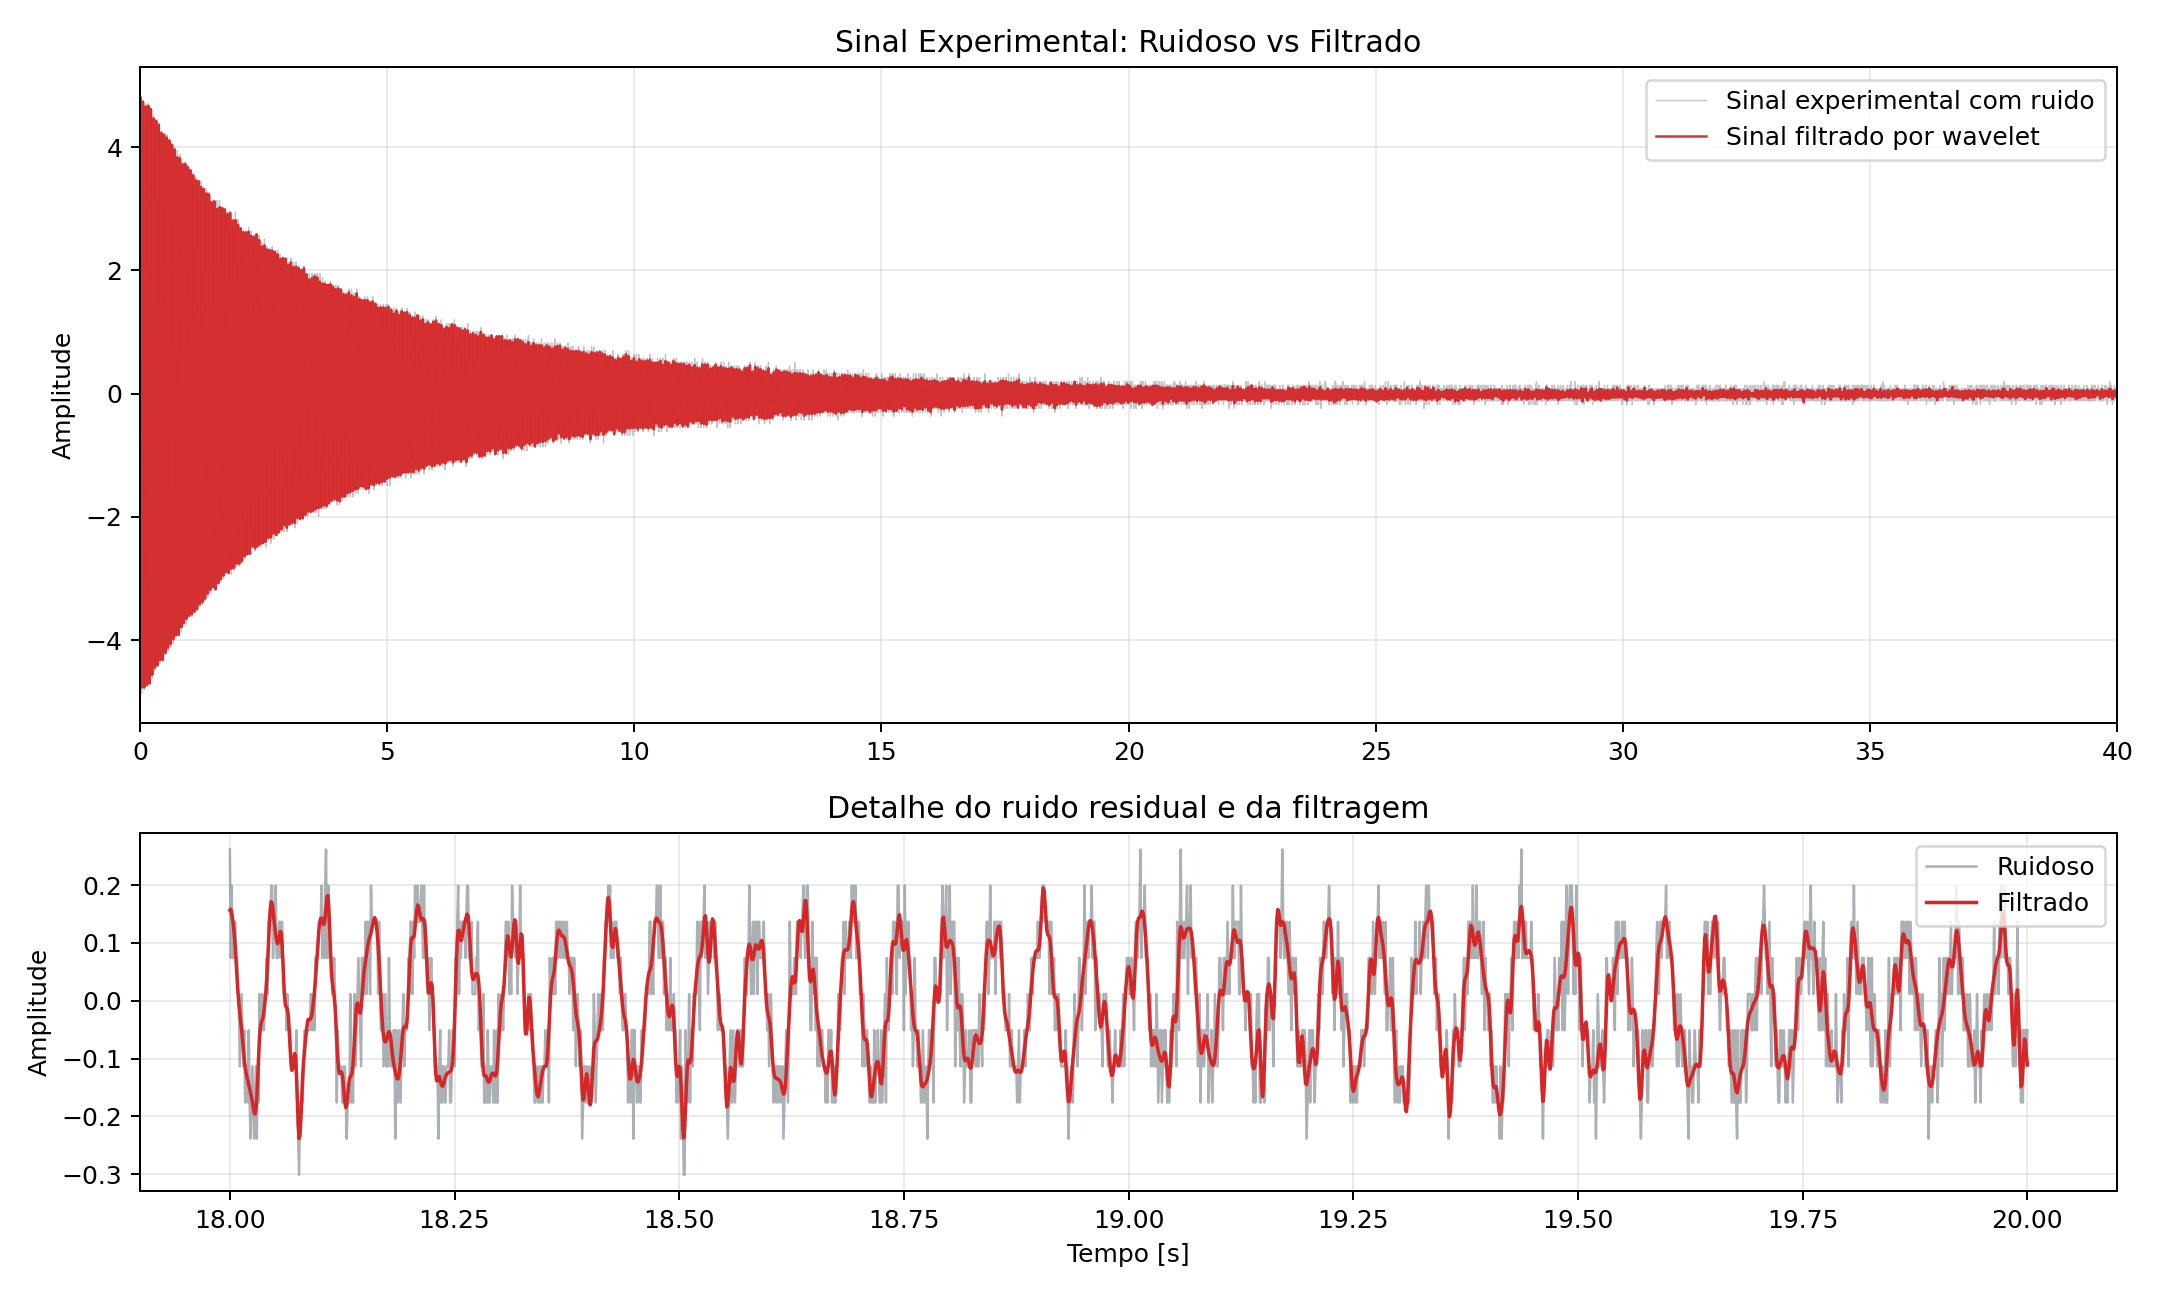
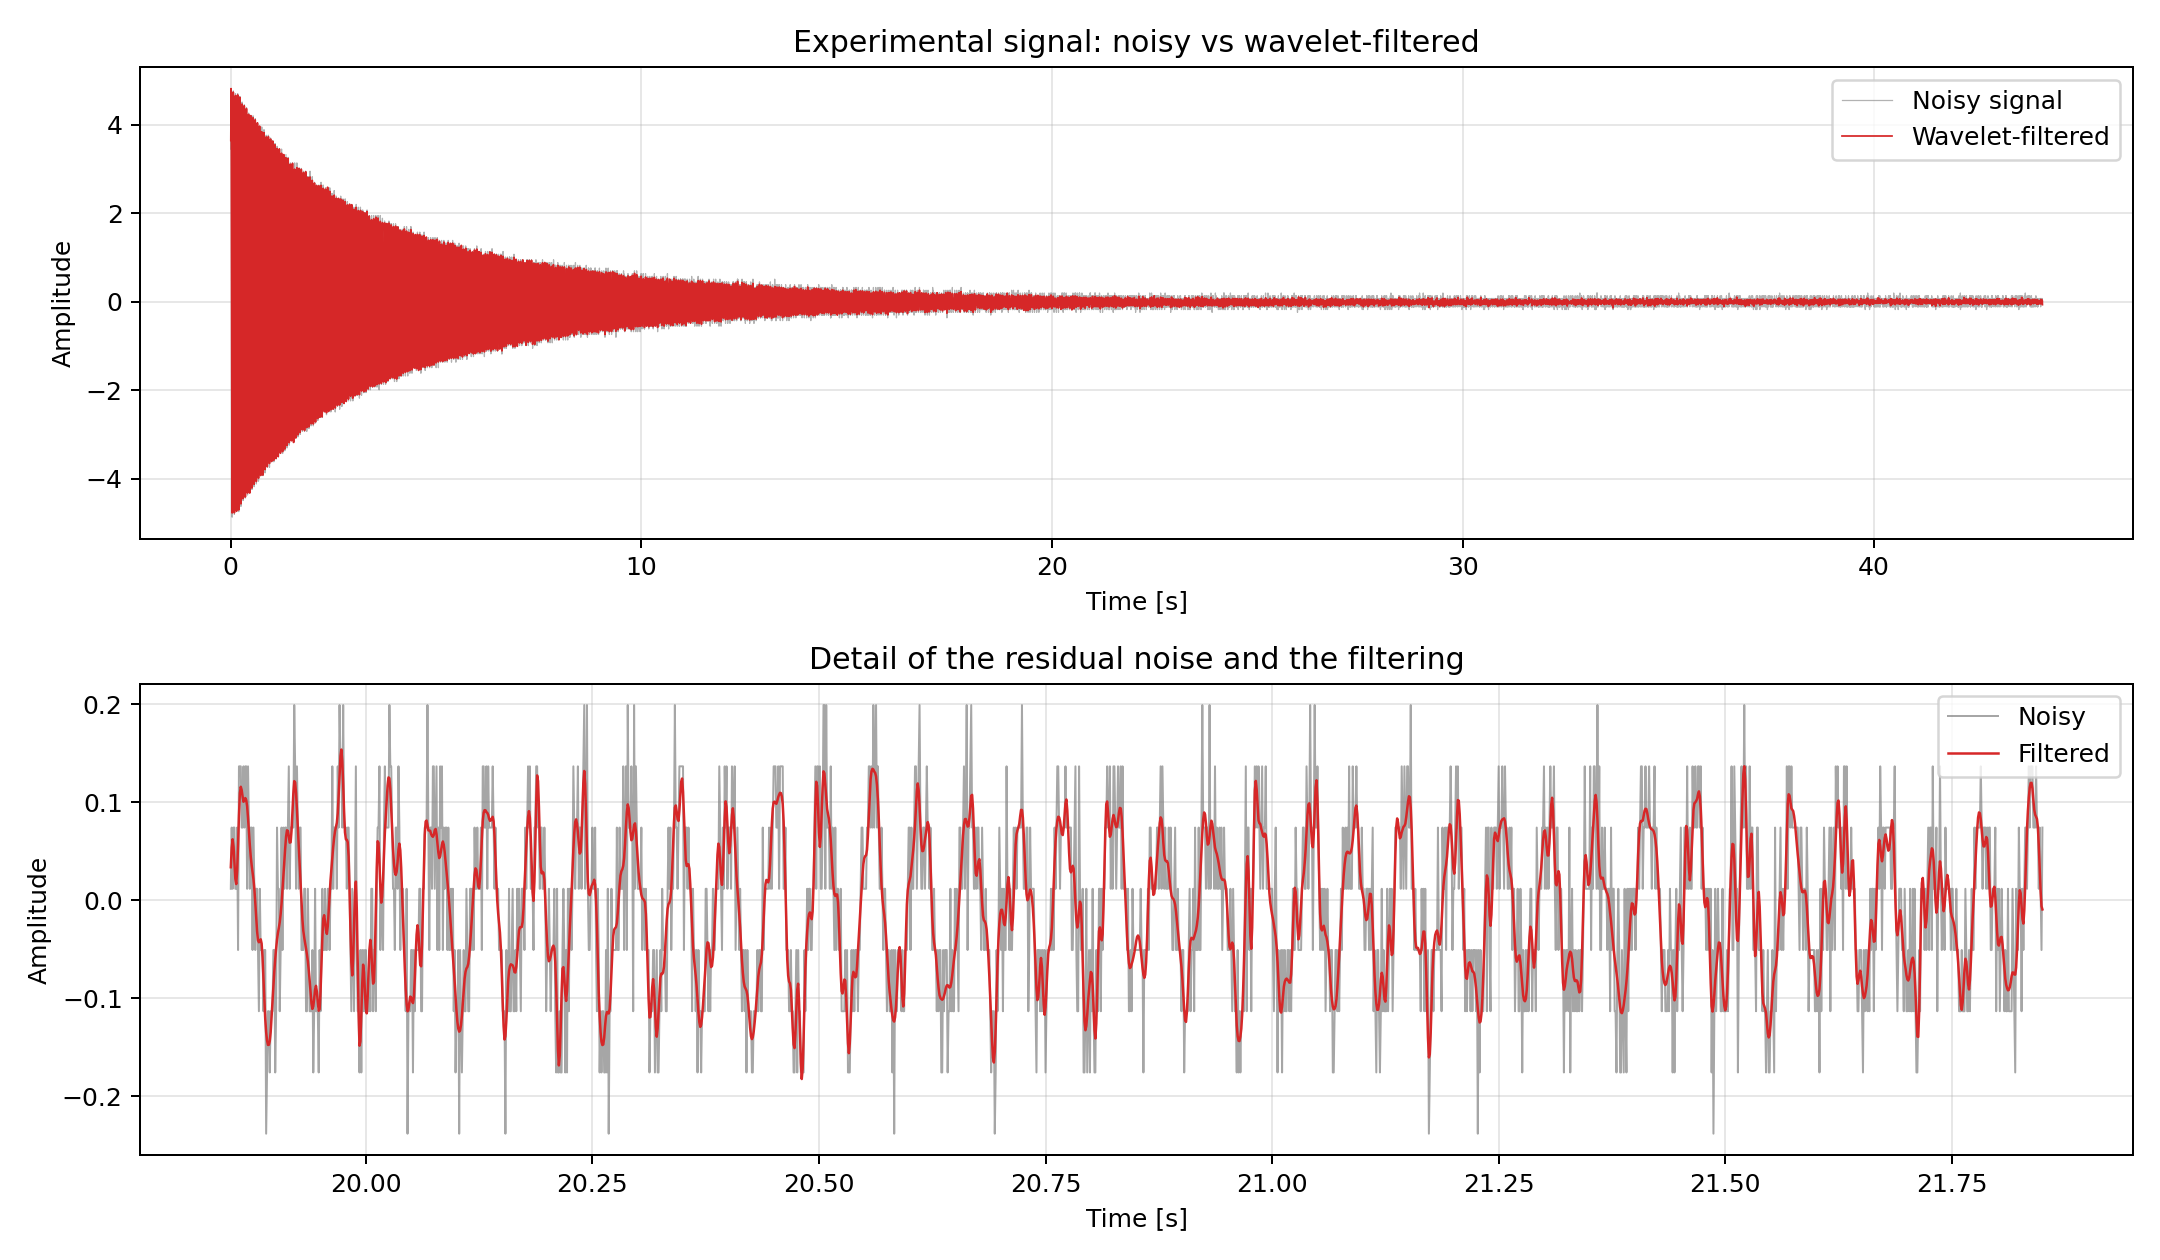
Regenerate curated figures with the fixed pipeline, in English
The committed sensor and advanced figures (plus the two main README
figures) still carried Portuguese titles and results from the old
biased identification. All eleven are now re-exported by the repo
scripts on the public samples: corrected linear/Duffing model, PINN
actually fitting the inox waveform with its parameter-convergence
panel, and the HAVOK mode reconstruction tracking the full window.
FIGURE_PROVENANCE marks each one as regenerated.

diff --git a/docs/FIGURE_PROVENANCE.md b/docs/FIGURE_PROVENANCE.md
@@ -6,6 +6,12 @@ notes whether it is **reproducible** today by a script in this repo.
 
 Association-confidence legend: ✅ high · 🟡 likely · ❔ uncertain.
 
+**Update (July 2026):** after the identification-pipeline fixes, the curated
+figures marked *regenerated 2026-07* below were re-exported by the repo scripts
+(English titles, corrected linear/Duffing/PINN identification). The "Original
+source" column still records where each analysis came from; the original loose
+files remain the historical reference.
+
 ## `figures/generated/` — reproducible now
 
 | Figure | Script in this repo |
@@ -19,8 +25,8 @@ Association-confidence legend: ✅ high · 🟡 likely · ❔ uncertain.
 | Figure | Original source | Loose file | Reproducible |
 | --- | --- | --- | --- |
 | `01_signal.png` | `final.ipynb` (signal view) | `Sinal.png` 🟡 | `run_basic_analysis.py` |
-| `01_noisy_vs_filtered_signal.png` | `completo.py` / `wav.py` | `linear.png` ❔ | partial |
-| `02_fft.png` | `fft.py` / `final.ipynb` | `fft.png`, `fft_dado_15.png` 🟡 | `run_basic_analysis.py` |
+| `01_noisy_vs_filtered_signal.png` | `completo.py` / `wav.py` | `linear.png` ❔ | **yes** — `run_basic_analysis.py` (regenerated 2026-07) |
+| `02_fft.png` | `fft.py` / `final.ipynb` | `fft.png`, `fft_dado_15.png` 🟡 | **yes** — `run_basic_analysis.py` (regenerated 2026-07) |
 | `03_cwt.png` | `Scalograma.py` / `recon.py` | `CWT.png` ✅ | `run_basic_analysis.py` |
 | `04_hilbert_envelope.png` | `Hilbert.py` / `envelope.py` | `envelope_hilbert.png` ✅ | `run_basic_analysis.py` |
 | `05_gamma_fit.png` | `envelope.py` | `Gama.png`, `ajuste_gama.png` ✅ | partial |
@@ -33,21 +39,21 @@ Association-confidence legend: ✅ high · 🟡 likely · ❔ uncertain.
 
 | Figure | Original source | Loose file | Reproducible |
 | --- | --- | --- | --- |
-| `havok_reconstruction.png` | `recon.py` | `havok.png` ✅ | via `havok.py` |
-| `sindy_identification.png` | `sindy_tratado.py` / `Synd.py` | `sindy.png` ✅ | via `sindy_model.py` / `run_advanced_analysis.py` |
-| `pinn_inverse_problem.png` | `PINN.py` | `probema inverso.png` 🟡 | via `pinn.py` / `run_advanced_analysis.py --run-pinn` |
+| `havok_reconstruction.png` | `recon.py` | `havok.png` ✅ | **yes** — `run_advanced_analysis.py` (regenerated 2026-07) |
+| `sindy_identification.png` | `sindy_tratado.py` / `Synd.py` | `sindy.png` ✅ | **yes** — `run_advanced_analysis.py` (regenerated 2026-07) |
+| `pinn_inverse_problem.png` | `PINN.py` / `novo_pipeline/Pinn.py` | `probema inverso.png` 🟡 | **yes** — `run_advanced_analysis.py --run-pinn` (regenerated 2026-07; now the two-stage fit on the inox sample with parameter convergence) |
 | `duffing_global_envelope_fit.png` | `prof/definitivo.ipynb` (global optimization, narrative §11) | `ajusteglobal.png` ✅ | **yes** — `scripts/run_global_fit.py` |
 
 ## `figures/sensor/`
 
 | Figure | Original source | Loose file | Reproducible |
 | --- | --- | --- | --- |
-| `sensor_nonlinearity_fit.png` | `testes.py` (position residual vs simulated linear state, cubic fit) | `nonlinear.png` ✅ | **yes** — `run_sensor_residual.py` |
-| `sindy_linear_model_subtraction.png` | `completo.py` (linear residual) | `res1.png`, `res2.png` ✅ | via `run_sensor_residual.py` |
-| `sensor_residual_signature.png` | `completo.py` | — | via `run_sensor_residual.py` |
-| `sensor_residual_spectrum.png` | `completo.py` | — | via `run_sensor_residual.py` |
-| `sensor_residual_phase_space.png` | `completo.py` | — | via `run_sensor_residual.py` |
-| `sensor_response_surface_slice.png` | `completo.py` / `model.py` | — | via `run_sensor_residual.py` |
+| `sensor_nonlinearity_fit.png` | `testes.py` (position residual vs simulated linear state, cubic fit) | `nonlinear.png` ✅ | **yes** — `run_sensor_residual.py` (regenerated 2026-07) |
+| `sindy_linear_model_subtraction.png` | `completo.py` / `testes.py` (linear residual) | `res1.png`, `res2.png` ✅ | **yes** — `run_sensor_residual.py` (regenerated 2026-07) |
+| `sensor_residual_signature.png` | `completo.py` | — | **yes** — `run_sensor_residual.py` (regenerated 2026-07) |
+| `sensor_residual_spectrum.png` | `completo.py` | — | **yes** — `run_sensor_residual.py` (regenerated 2026-07) |
+| `sensor_residual_phase_space.png` | `completo.py` | — | **yes** — `run_sensor_residual.py` (regenerated 2026-07) |
+| `sensor_response_surface_slice.png` | `completo.py` / `model.py` | — | **yes** — `run_sensor_residual.py` (regenerated 2026-07) |
 | `sensor_residual_projection(_3d).png` | SVD projections of the residual | — | 🟡 variation (same residual, different projection) |
 
 ## `figures/setup/` — photos

diff --git a/README.md b/README.md
@@ -59,7 +59,7 @@ full investigation is in [`docs/ORIGINAL_CODE_AUDIT.md`](docs/ORIGINAL_CODE_AUDI
 
 **Hardware & engineering**
 - Modified TCRT5000 reflective optical sensor + Arduino Uno (~1 kHz), raw streaming over serial
-- Typed, modular package · 39 regression tests · ruff lint + format · GitHub Actions CI (3.10 / 3.12 + a job with the pysindy/torch extras)
+- Typed, modular package · 40 regression tests · ruff lint + format · GitHub Actions CI (3.10 / 3.12 + a job with the pysindy/torch extras)
 
 ## Quick start
 
